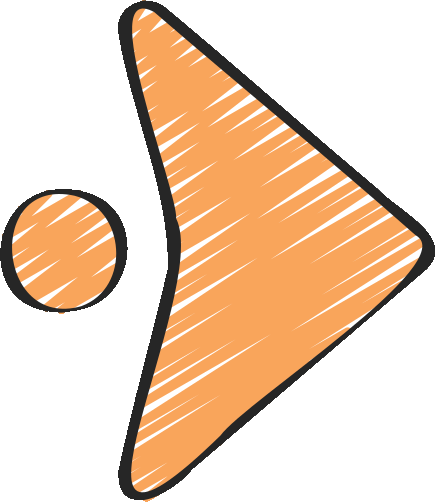
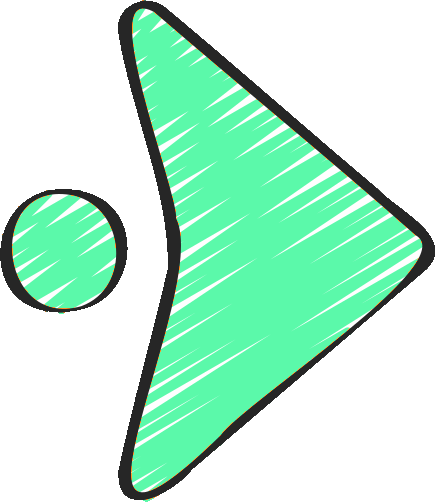
feat(ui): resolve caching issue by using a newly named arrow-orange.png asset for light mode

diff --git a/src/features/settings/SettingsPage.tsx b/src/features/settings/SettingsPage.tsx
@@ -117,7 +117,7 @@ export function SettingsPage({ tracker }: Props) {
         <div style={cardStyle}>
           <div style={getLabelStyle('var(--accent-color)')}>
             <img src="/assets/settings-profile.png" alt="Profile" style={{ width: '38px', height: '38px', objectFit: 'contain' }} />
-            <img src={tracker.settings.themeMode === 'light' ? "/assets/arrow-green-light.png" : "/assets/arrow-green.png"} alt="Arrow" style={{ height: '14px', width: 'auto', objectFit: 'contain', marginRight: '8px' }} />
+            <img src={tracker.settings.themeMode === 'light' ? "/assets/arrow-orange.png" : "/assets/arrow-green.png"} alt="Arrow" style={{ height: '14px', width: 'auto', objectFit: 'contain', marginRight: '8px' }} />
             <span>{t('accountProfile')}</span>
           </div>
           <div style={{ display: 'flex', flexDirection: 'column', gap: '8px' }}>
@@ -196,7 +196,7 @@ export function SettingsPage({ tracker }: Props) {
         <div style={cardStyle}>
           <div style={getLabelStyle('var(--accent-color)')}>
             <img src="/assets/settings-body.png" alt="Body Composition" style={{ width: '38px', height: '38px', objectFit: 'contain' }} />
-            <img src={tracker.settings.themeMode === 'light' ? "/assets/arrow-green-light.png" : "/assets/arrow-green.png"} alt="Arrow" style={{ height: '14px', width: 'auto', objectFit: 'contain', marginRight: '8px' }} />
+            <img src={tracker.settings.themeMode === 'light' ? "/assets/arrow-orange.png" : "/assets/arrow-green.png"} alt="Arrow" style={{ height: '14px', width: 'auto', objectFit: 'contain', marginRight: '8px' }} />
             <span>Body Composition</span>
           </div>
           <div style={{ display: 'grid', gridTemplateColumns: '1fr 1fr 1fr', gap: '8px' }}>
@@ -240,7 +240,7 @@ export function SettingsPage({ tracker }: Props) {
         <div style={cardStyle}>
           <div style={getLabelStyle('var(--accent-color)')}>
             <img src="/assets/settings-strategy.png" alt="Strategy" style={{ width: '38px', height: '38px', objectFit: 'contain' }} />
-            <img src={tracker.settings.themeMode === 'light' ? "/assets/arrow-green-light.png" : "/assets/arrow-green.png"} alt="Arrow" style={{ height: '14px', width: 'auto', objectFit: 'contain', marginRight: '8px' }} />
+            <img src={tracker.settings.themeMode === 'light' ? "/assets/arrow-orange.png" : "/assets/arrow-green.png"} alt="Arrow" style={{ height: '14px', width: 'auto', objectFit: 'contain', marginRight: '8px' }} />
             <span>Fitness Strategy</span>
           </div>
           <div style={{ display: 'flex', background: 'rgba(var(--theme-rgb), 0.06)', borderRadius: '14px', padding: '4px' }}>
@@ -268,7 +268,7 @@ export function SettingsPage({ tracker }: Props) {
         <div style={{ ...cardStyle, gap: '15px', marginBottom: '8px' }}>
           <div style={getLabelStyle('var(--accent-color)')}>
             <img src="/assets/settings-appearance.png" alt="Appearance" style={{ width: '38px', height: '38px', objectFit: 'contain' }} />
-            <img src={tracker.settings.themeMode === 'light' ? "/assets/arrow-green-light.png" : "/assets/arrow-green.png"} alt="Arrow" style={{ height: '14px', width: 'auto', objectFit: 'contain', marginRight: '8px' }} />
+            <img src={tracker.settings.themeMode === 'light' ? "/assets/arrow-orange.png" : "/assets/arrow-green.png"} alt="Arrow" style={{ height: '14px', width: 'auto', objectFit: 'contain', marginRight: '8px' }} />
             <span>Appearance</span>
           </div>
           <div style={{ display: 'flex', background: 'rgba(var(--theme-rgb), 0.06)', borderRadius: '16px', padding: '4px', width: '100%' }}>